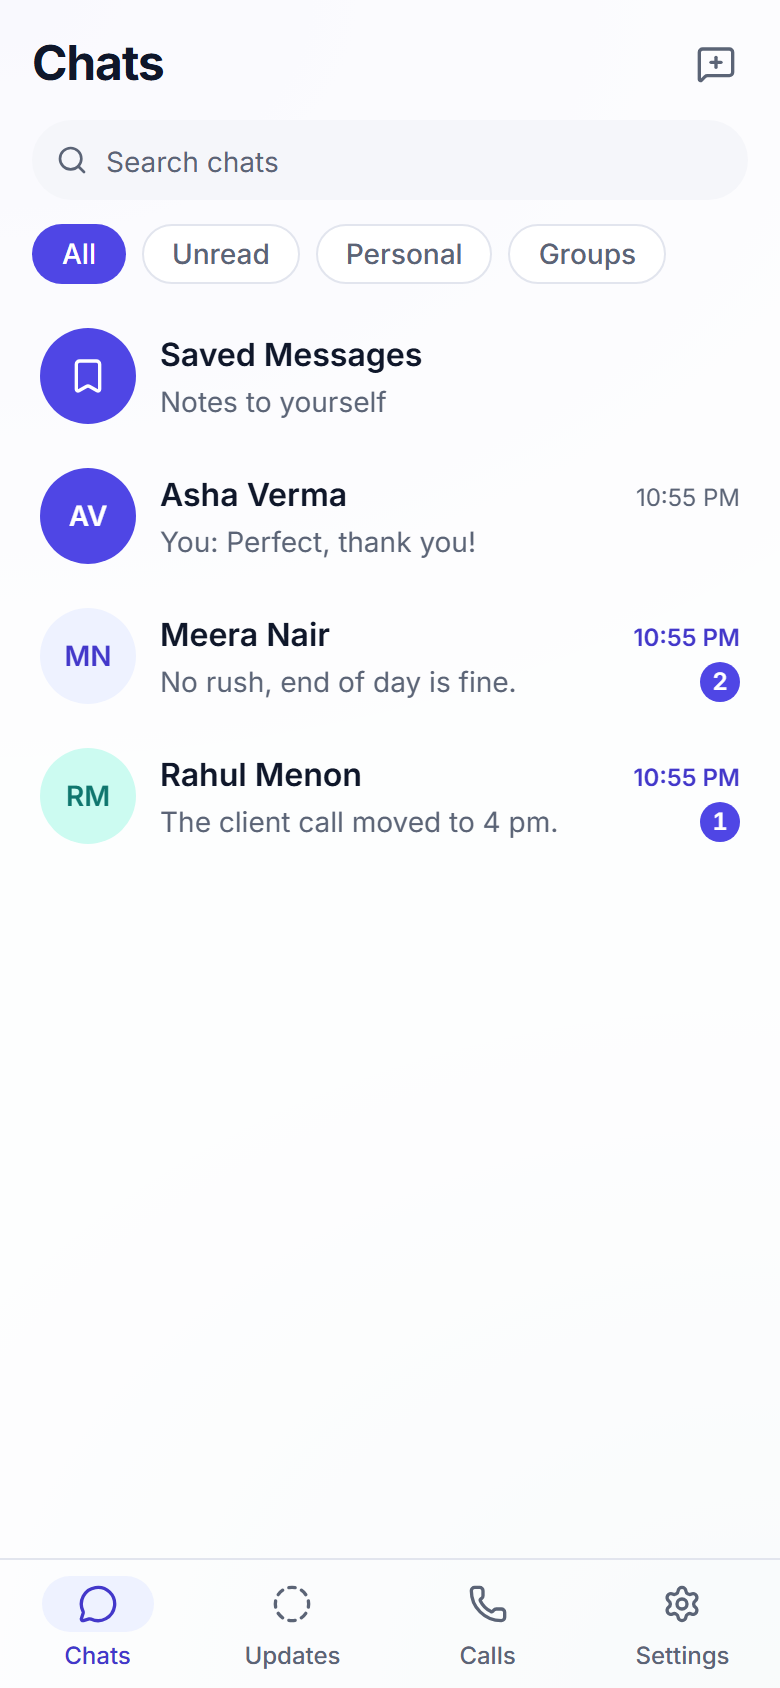
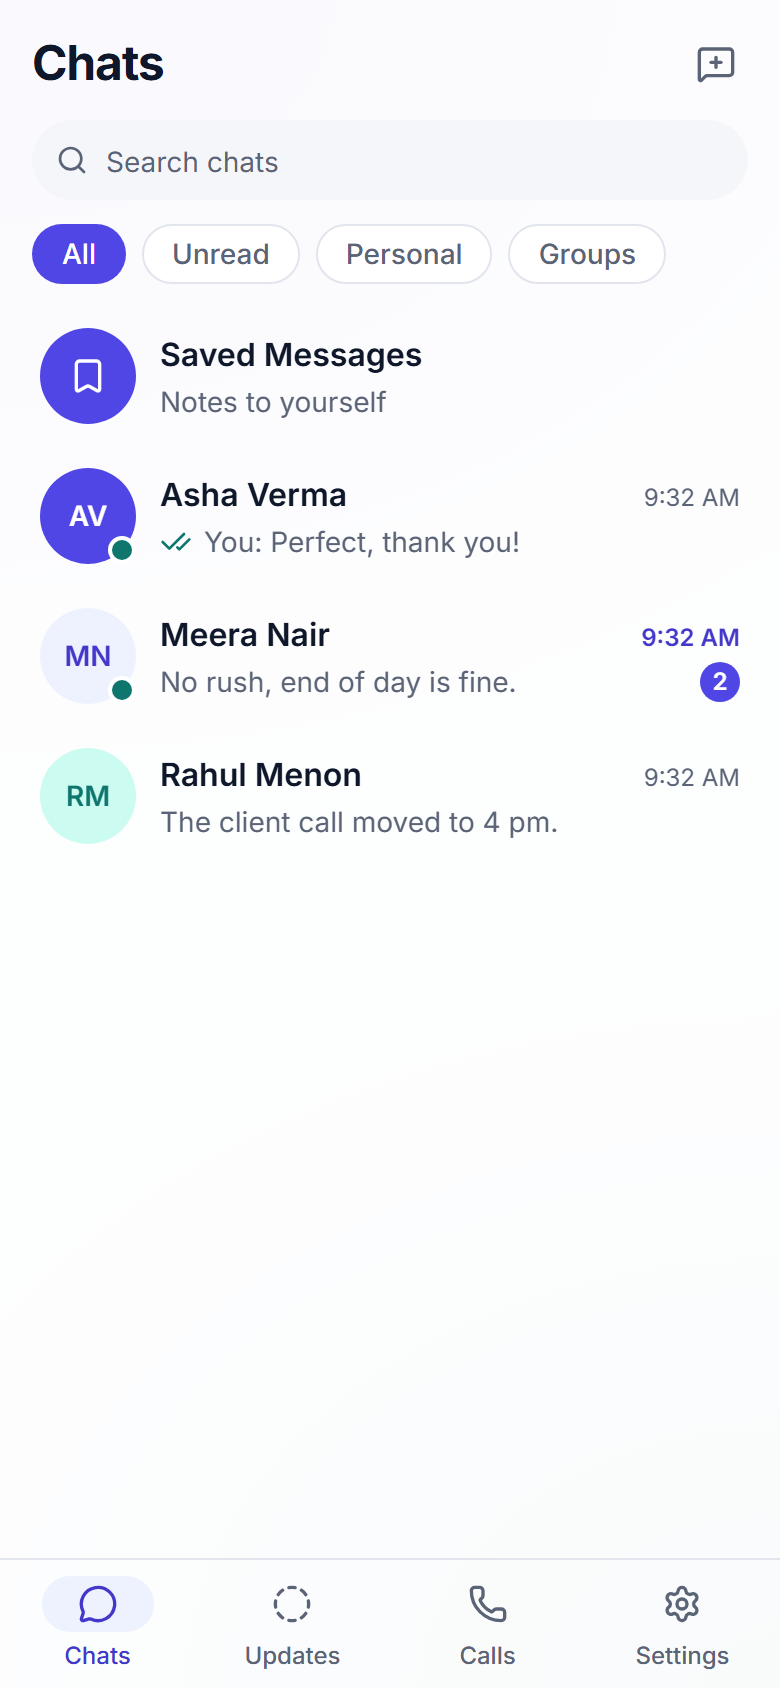
test(e2e): cover ticks, read-receipt privacy, typing and last seen
Runs on all browsers and through the Vite dev server. Install dialog screenshots are retaken with
the new ticks.

diff --git a/frontend/e2e/chat.spec.ts b/frontend/e2e/chat.spec.ts
@@ -1,4 +1,4 @@
-import { expect, test } from '@playwright/test';
+import { expect, type Page, test } from '@playwright/test';
 import {
   bubbles,
   expectBubbles,
@@ -14,6 +14,13 @@ import { open, SLOW, waitForActiveServiceWorker } from './helpers';
 
 test.describe.configure({ timeout: 240_000 });
 
+/** Accepted by the server. It may already have moved on to delivered or read. */
+const ACCEPTED = /^(Sent|Delivered|Read)$/;
+
+/** Ticks on the messages only: the chat list's preview shows one as well. */
+const ticks = (page: Page, chatName: string, name: string | RegExp) =>
+  page.getByRole('list', { name: chatName, exact: true }).getByRole('img', { name });
+
 test('two people chat in real time, and reading clears the badge', async ({ browser }) => {
   const asha = await newPerson(browser, 'Asha');
   const bharat = await newPerson(browser, 'Bharat');
@@ -23,10 +30,9 @@ test('two people chat in real time, and reading clears the badge', async ({ brow
   await expect(asha.page.getByRole('link', { name: /Saved Messages/ })).toBeVisible();
 
   await openChatWith(asha.page, bharat);
-  await expect(asha.page.getByText(`@${bharat.username}`)).toBeVisible();
   await send(asha.page, 'Hello Bharat');
   await expectBubbles(asha.page, 'Bharat', ['Hello Bharat']);
-  await expect(asha.page.getByRole('img', { name: 'Sent' })).toBeVisible(SLOW);
+  await expect(ticks(asha.page, 'Bharat', ACCEPTED)).toBeVisible(SLOW);
 
   // Bharat has not opened anything: the chat appears by itself, with a badge.
   const row = bharat.page.getByRole('link', { name: /Asha/ });
@@ -61,7 +67,7 @@ test('both people open the empty chat first, and then either can send', async ({
 
   await send(asha.page, 'from Asha');
   await expectBubbles(bharat.page, 'Asha', ['from Asha']);
-  await expect(asha.page.getByRole('img', { name: 'Sent' })).toBeVisible(SLOW);
+  await expect(ticks(asha.page, 'Bharat', ACCEPTED)).toBeVisible(SLOW);
   await send(bharat.page, 'from Bharat');
   await expectBubbles(asha.page, 'Bharat', ['from Asha', 'from Bharat']);
 
@@ -71,7 +77,7 @@ test('both people open the empty chat first, and then either can send', async ({
   await expectBubbles(asha.page, 'Bharat', ['from Asha', 'from Bharat']);
   await send(asha.page, 'after reload');
   await expectBubbles(bharat.page, 'Asha', ['from Asha', 'from Bharat', 'after reload']);
-  await expect(bharat.page.getByRole('img', { name: 'Sending' })).toHaveCount(0);
+  await expect(ticks(bharat.page, 'Asha', 'Sending')).toHaveCount(0);
 
   await asha.context.close();
   await bharat.context.close();
@@ -102,7 +108,7 @@ test('a stuck tab holding the outbox lock cannot stop another tab from sending',
   await expect(tab.getByRole('status').filter({ hasText: 'Connected' })).toBeAttached(SLOW);
   await send(tab, 'sent past the stuck tab');
   await expectBubbles(bharat.page, 'Asha', ['sent past the stuck tab']);
-  await expect(tab.getByRole('img', { name: 'Sent' })).toBeVisible(SLOW);
+  await expect(ticks(tab, 'Bharat', ACCEPTED)).toBeVisible(SLOW);
 
   await asha.context.close();
   await bharat.context.close();
@@ -120,12 +126,12 @@ test('messages sent offline arrive in order, once, after reconnecting', async ({
   await expect(bharat.page.getByRole('link', { name: /Asha/ })).toBeVisible(SLOW);
   await openFromList(bharat.page, 'Asha');
   await expectBubbles(bharat.page, 'Asha', ['before']);
-  await expect(asha.page.getByRole('img', { name: 'Sent' })).toBeVisible(SLOW);
+  await expect(ticks(asha.page, 'Bharat', ACCEPTED)).toBeVisible(SLOW);
 
   await asha.context.setOffline(true);
   for (const text of ['one', 'two', 'three']) await send(asha.page, text);
   await expectBubbles(asha.page, 'Bharat', ['before', 'one', 'two', 'three']);
-  await expect(asha.page.getByRole('img', { name: 'Sending' })).toHaveCount(3);
+  await expect(ticks(asha.page, 'Bharat', 'Sending')).toHaveCount(3);
   expect(await bubbles(bharat.page, 'Asha')).toEqual(['before']);
 
   // Still there after a reload while offline: the outbox is stored, not in memory. Only Chromium
@@ -137,7 +143,7 @@ test('messages sent offline arrive in order, once, after reconnecting', async ({
 
   await asha.context.setOffline(false);
   await expectBubbles(bharat.page, 'Asha', ['before', 'one', 'two', 'three']);
-  await expect(asha.page.getByRole('img', { name: 'Sent' })).toHaveCount(4, SLOW);
+  await expect(ticks(asha.page, 'Bharat', ACCEPTED)).toHaveCount(4, SLOW);
 
   // Nothing arrives twice, on either side.
   await bharat.page.waitForTimeout(2000);

diff --git a/frontend/e2e/presence.spec.ts b/frontend/e2e/presence.spec.ts
@@ -1,0 +1,57 @@
+import { expect, test } from '@playwright/test';
+import { expectBubbles, newPerson, openChatWith, openFromList, send } from './chat-helpers';
+import { open, SLOW } from './helpers';
+
+test.describe.configure({ timeout: 240_000 });
+
+const lastTick = (page: import('@playwright/test').Page, chatName: string) =>
+  page.getByRole('list', { name: chatName, exact: true }).getByRole('img').last();
+
+test('ticks, read-receipt privacy, typing and last seen between two people', async ({
+  browser,
+}) => {
+  const asha = await newPerson(browser, 'Asha');
+  const bharat = await newPerson(browser, 'Bharat');
+  await openChatWith(asha.page, bharat);
+
+  // A sends while B is online but not in the chat: B's device received it.
+  await send(asha.page, 'one');
+  await expect(lastTick(asha.page, 'Bharat')).toHaveAccessibleName('Delivered', SLOW);
+
+  // Online is visible both ways, with a status in the header.
+  await expect(asha.page.getByText('online', { exact: true })).toBeVisible(SLOW);
+
+  // B opens the chat: A sees it read.
+  await openFromList(bharat.page, 'Asha');
+  await expectBubbles(bharat.page, 'Asha', ['one']);
+  await expect(lastTick(asha.page, 'Bharat')).toHaveAccessibleName('Read', SLOW);
+
+  // B types: A sees it in the header, and it goes when B stops.
+  const typing = asha.page.getByText('typing…');
+  await bharat.page.getByRole('textbox', { name: 'Write a message' }).pressSequentially('hel');
+  await expect(typing.first()).toBeVisible(SLOW);
+  await bharat.page.getByRole('textbox', { name: 'Write a message' }).fill('');
+  await expect(typing).toHaveCount(0, SLOW);
+
+  // B turns read receipts off: A's new message never goes past delivered, even once read.
+  await open(bharat.page, '/settings/privacy');
+  const off = bharat.page
+    .getByRole('radiogroup', { name: /Read receipts/ })
+    .getByRole('radio', { name: 'Off' });
+  await off.click();
+  await expect(off).toHaveAttribute('aria-checked', 'true', SLOW);
+  await open(bharat.page, '/chats');
+  await send(asha.page, 'two');
+  await expect(lastTick(asha.page, 'Bharat')).toHaveAccessibleName('Delivered', SLOW);
+  await openFromList(bharat.page, 'Asha');
+  await expectBubbles(bharat.page, 'Asha', ['one', 'two']);
+  await expect(bharat.page.getByLabel(/unread/)).toHaveCount(0, SLOW);
+  await asha.page.waitForTimeout(2000);
+  await expect(lastTick(asha.page, 'Bharat')).toHaveAccessibleName('Delivered');
+
+  // B closes the page: A sees when B was last here.
+  await bharat.context.close();
+  await expect(asha.page.getByText(/^last seen today at/)).toBeVisible(SLOW);
+
+  await asha.context.close();
+});

diff --git a/frontend/scripts/pwa-screenshots.ts b/frontend/scripts/pwa-screenshots.ts
@@ -92,6 +92,20 @@ for (const colorScheme of ['light', 'dark'] as const) {
   }
 }
 
+if (extraDir) {
+  await kiran.page.emulateMedia({ colorScheme: 'light' });
+  await kiran.page.setViewportSize({ width: 1280, height: 800 });
+  // Someone typing, then someone who has left.
+  await asha.page.getByRole('textbox', { name: 'Write a message' }).pressSequentially('Sure');
+  await kiran.page.getByText('typing…').first().waitFor();
+  await kiran.page.screenshot({ path: `${extraDir}/typing-light.png` });
+  await asha.page.getByRole('textbox', { name: 'Write a message' }).fill('');
+  await kiran.page.getByRole('link', { name: /Rahul Menon/ }).click();
+  await rahul.page.context().close();
+  await kiran.page.getByText(/^last seen today/).waitFor();
+  await shot(kiran.page, `${extraDir}/last-seen-light.png`);
+}
+
 // The narrow manifest screenshot is a real phone-sized device: its own context at 2× scale.
 const phone = await browser.newContext({
   baseURL: BASE,

diff --git a/frontend/e2e/people-security.spec.ts b/frontend/e2e/people-security.spec.ts
@@ -50,8 +50,9 @@ test('two colleagues: profile, people search, devices and admin deactivation', a
   await expect(picker.getByRole('option')).toHaveCount(1, SLOW);
   await expect(picker.getByRole('option', { name: /Asha Verma/ })).toBeVisible();
   await picker.getByRole('combobox').press('Enter');
-  await expect(b.getByText(`@${username}`)).toBeVisible(SLOW);
-  await expect(b.getByRole('heading', { name: 'Asha Verma' })).toBeAttached();
+  await expect(b.getByRole('heading', { name: 'Asha Verma' })).toBeAttached(SLOW);
+  await b.getByRole('button', { name: 'Chat info' }).first().click();
+  await expect(b.getByText(`@${username}`).first()).toBeVisible(SLOW);
 
   // A signs in on a second device, then signs it out from Settings → Devices.
   const a2 = await newPage(browser);

diff --git a/frontend/playwright.dev.config.ts b/frontend/playwright.dev.config.ts
@@ -13,8 +13,8 @@ const CI = Boolean(process.env.CI);
 
 export default defineConfig({
   testDir: './e2e',
-  testMatch: /chat\.spec\.ts/,
-  grep: /two people chat|second device|both people open|stuck tab/,
+  testMatch: /(chat|presence)\.spec\.ts/,
+  grep: /two people chat|second device|both people open|stuck tab|ticks, read-receipt/,
   outputDir: './test-results/dev',
   workers: 1,
   forbidOnly: CI,
